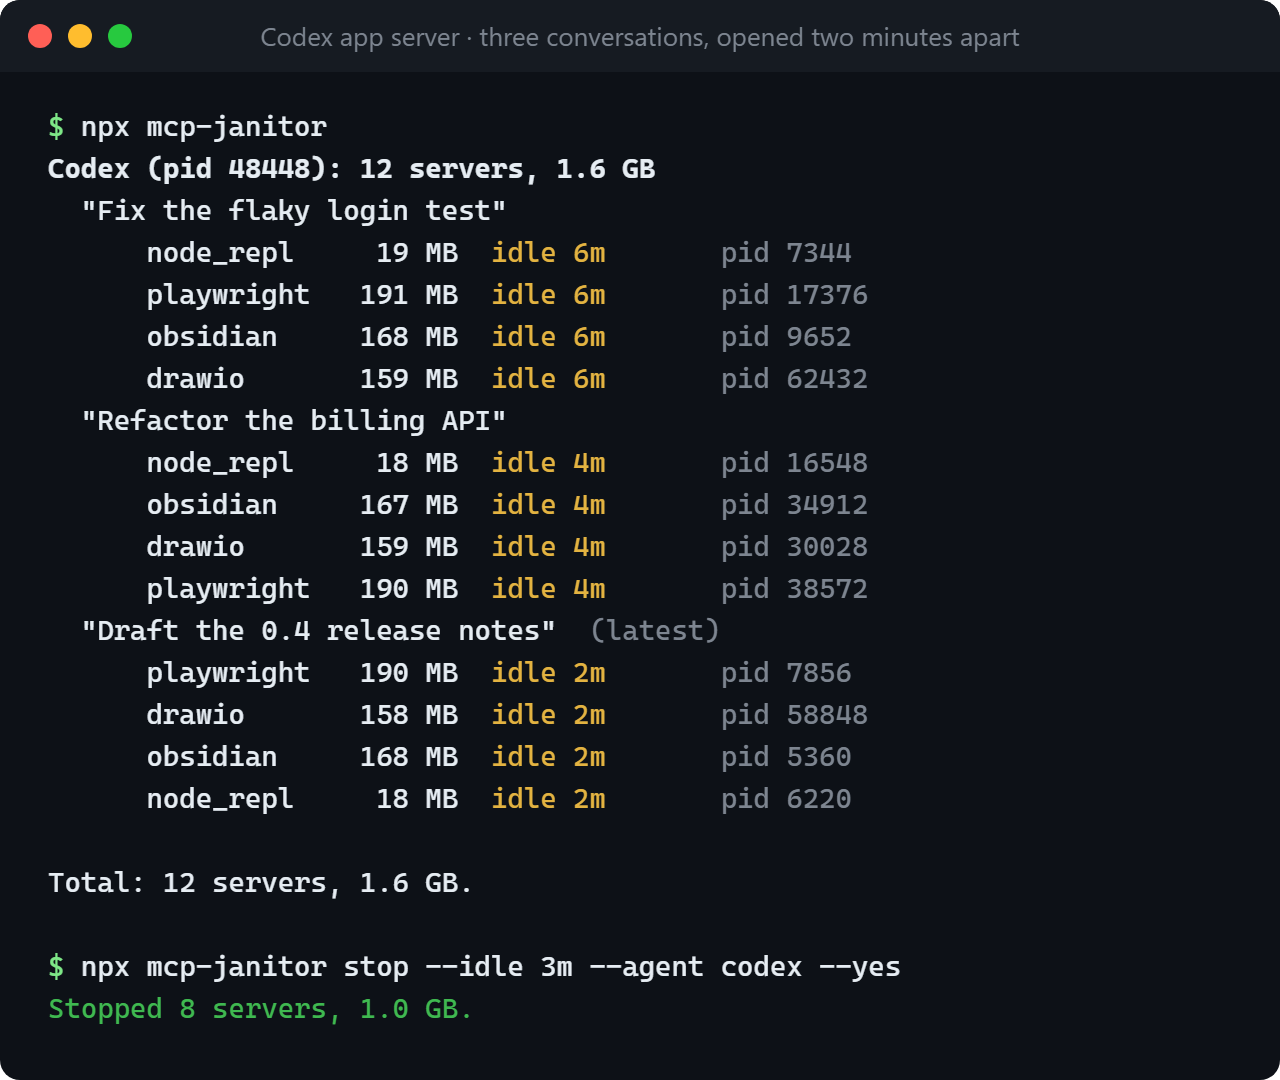
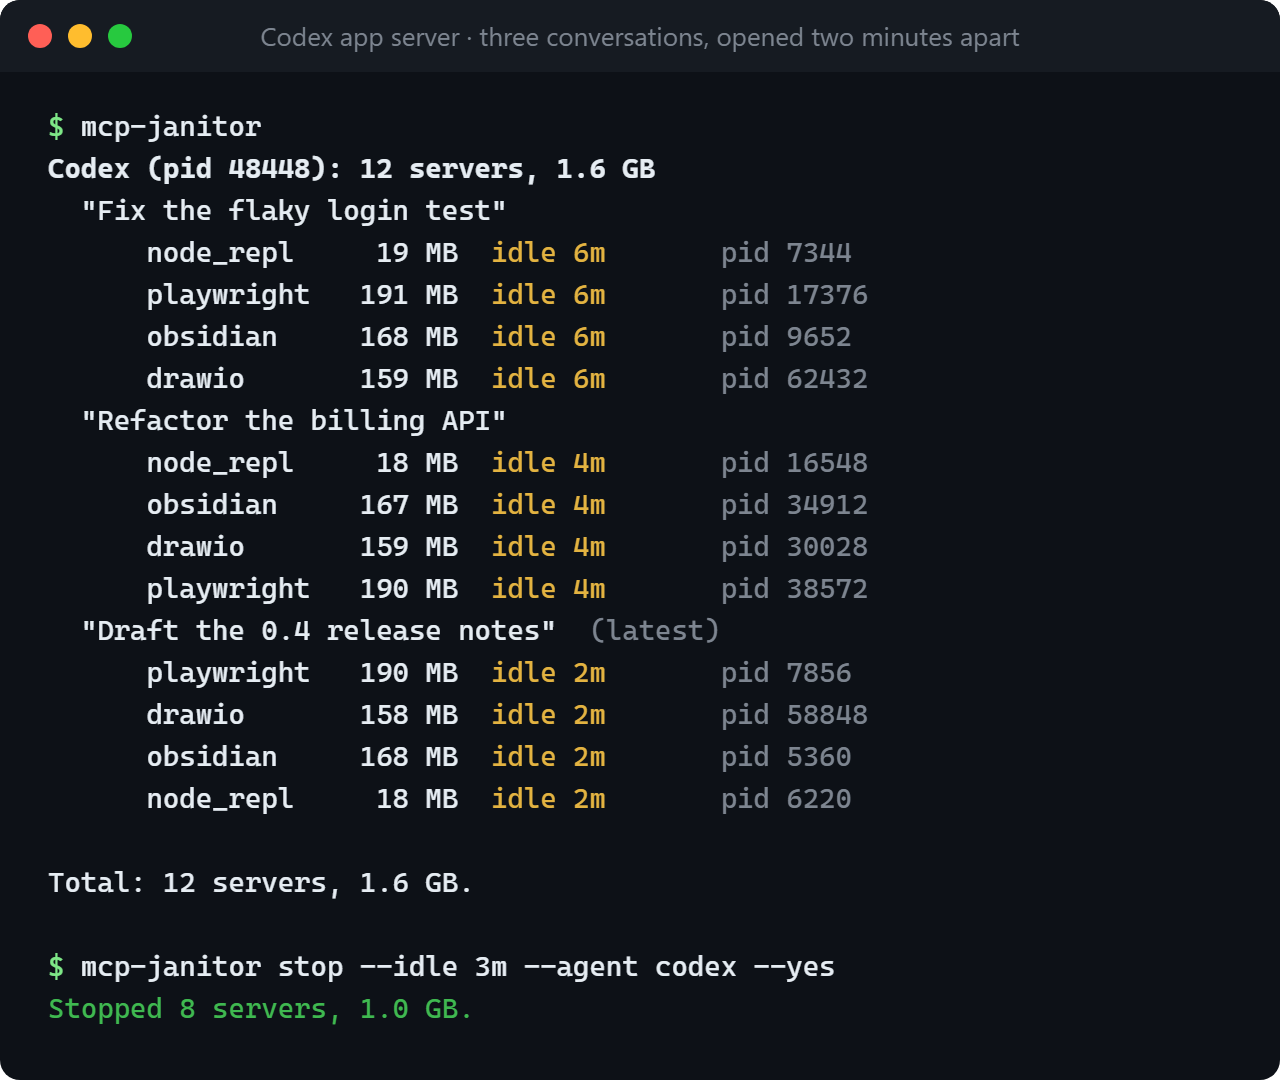
Show the command without npx in the demo image; neutral test data
The demo image still showed npx mcp-janitor, which is not on npm. Tests used a conversation title and PID taken from a real machine; they use made-up ones now. The README asks to check conversation titles before posting --json output.

Changed region(s): [[0.0625, 0.8861, 0.7188, 0.9167], [0.0625, 0.0917, 0.25, 0.1528]]

diff --git a/README.md b/README.md
@@ -142,7 +142,8 @@ Windows, Linux and macOS. Cursor, VS Code and Gemini CLI are read from their
 documented config files but have not been tried against a live install yet.
 If something is missing or wrong on your machine, please
 [open an issue](https://github.com/Rober1208/mcp-janitor/issues) with the
-output of `mcp-janitor --json`.
+output of `mcp-janitor --json`. It includes your conversation titles: replace
+any you would rather not post.
 
 ## Privacy
 
